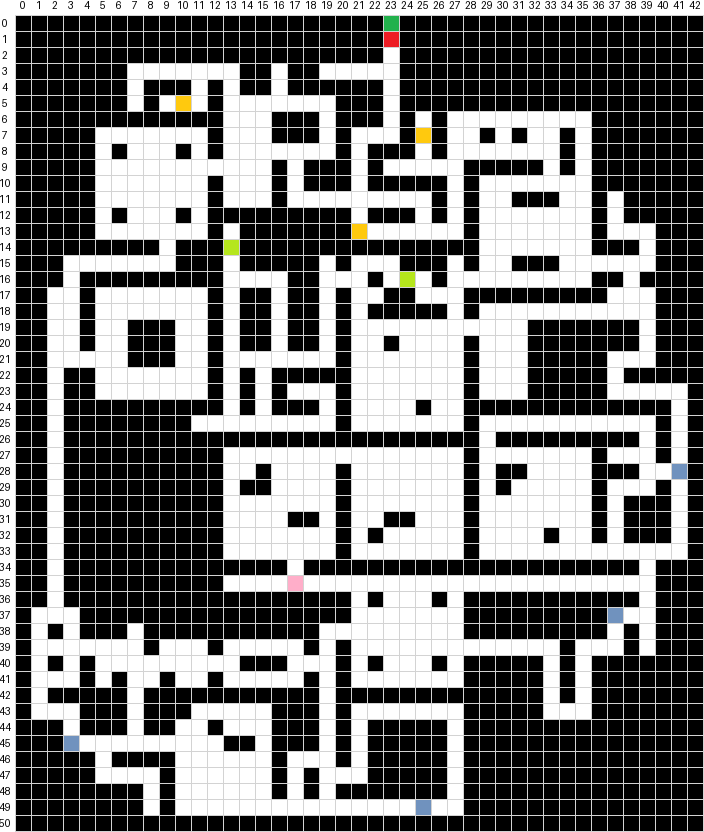
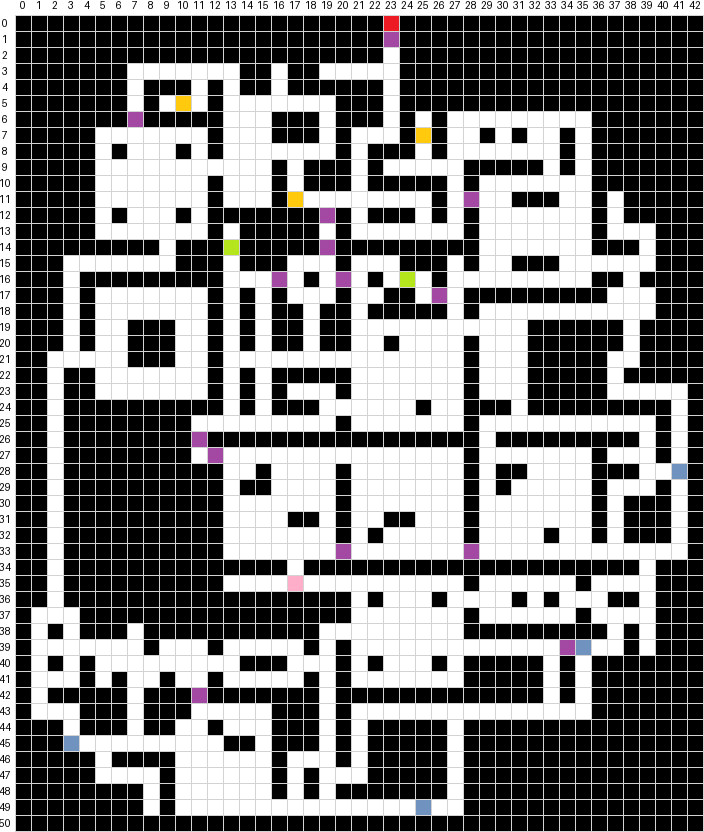
mapper takes color as input

diff --git a/ScreamJam/Scenes/Map/MapFile/mapper.py b/ScreamJam/Scenes/Map/MapFile/mapper.py
@@ -1,13 +1,32 @@
-import argparse
+import argparse, math
 from PIL import Image, ImageDraw, ImageFont
 
-def is_black(color, tolerance):
-    return color[0] <= tolerance and color[1] <= tolerance and color[2] <= tolerance
+max_distance = math.sqrt(255 ** 2 * 3)
 
-def map_from_image(image_path, output_path, tolerance = 50):
+celltype_dictionary = {
+    '0': 'black',
+    '1': 'white',
+    '2': (237, 28, 36),
+    '3': (163, 73, 164),
+    '6': (255, 201, 14),
+    '7': (181, 230, 29),
+    '8': (112, 146, 190),
+    '9': (255, 174, 201),
+}
+
+def color_distance(c1, c2):
+    return math.sqrt(sum((a - b) ** 2 for a, b in zip(c1, c2)))
+
+def get_celltype(color, tolerance):
+    for color in celltype_dictionary:
+        if(color_distance(color, color[celltype_dictionary]) <= (tolerance / 100.0) * max_distance):
+            return color
+    return 0
+
+def map_from_image(image_path, output_path, tolerance = 8):
     img = Image.open(image_path)
     img = img.convert('RGB')
-
+    
     case_size = 16
     width, height = img.size
 
@@ -25,10 +44,7 @@ def map_from_image(image_path, output_path, tolerance = 50):
             box = img.crop((x * case_size, y * case_size, (x + 1) * case_size, (y + 1) * case_size))
             avg_color = box.resize((1, 1)).getpixel((0, 0))
 
-            if is_black(avg_color, tolerance):
-                row.append('0')
-            else:
-                row.append('1')
+            row.append(get_celltype(avg_color, tolerance))
 
         grid.append(' '.join(row))
 
@@ -68,7 +84,10 @@ def draw_from_txt(input_path, output_path, coordinates = False):
         for x in range(max_cases):
             x_pos = x * case_size + (x + 1) + offset
             y_pos = y * case_size + (y + 1) + offset
-            color = 'black' if grid[y][x] == '0' else 'white'
+            color = 'black'
+            if grid[y][x] in celltype_dictionary:
+                color = celltype_dictionary[grid[y][x]]
+            
             draw.rectangle([x_pos, y_pos, x_pos + case_size, y_pos + case_size], fill=color)
 
     for y in range(len(grid) + 1):
